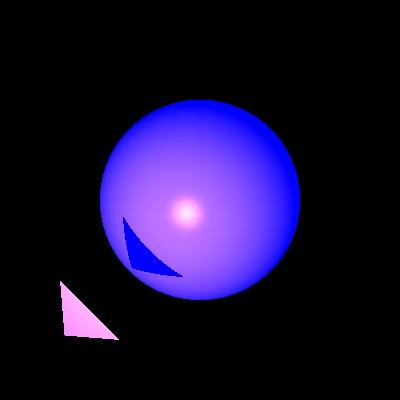
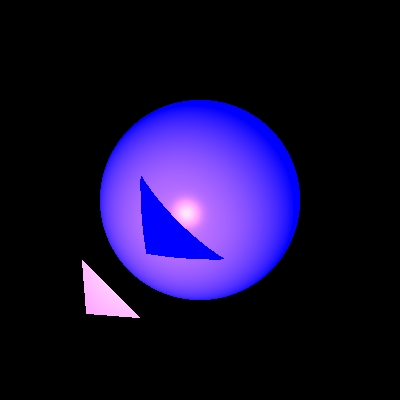
debut targuil 7

Changed region(s): [[0.3, 0.45, 0.57, 0.69], [0.15, 0.66, 0.36, 0.87]]

diff --git a/unitTest/renderer/LightsTests.java b/unitTest/renderer/LightsTests.java
@@ -20,16 +20,26 @@ public class LightsTests {
     @Test
     public void sphereDirectional() {
         Scene scene = new Scene.SceneBuilder("Test scene")
-                .addAmbientLight(new AmbientLight(new Color(250,25,25), 1))
+                .addAmbientLight(new AmbientLight(Color.BLACK, 0))
                 .addBackground(Color.BLACK)
-                .addCamera(new Camera(new Point3D(0, 0, -100), new Vector(0, 0, 1), new Vector(0, -1, 0)))
+                .addCamera(new Camera(
+                        new Point3D(0, 0, -1000),
+                        new Vector(0, 0, 1),
+                        new Vector(0, -1, 0)))
                 .addDistance(1000)
                 .build();
 
         scene.addGeometries(
-                new Sphere(new Color(java.awt.Color.BLUE), new Material(0.5, 0.5, 100), 50, new Point3D(0, 0, 50)));
+                new Sphere(
+                        new Color(java.awt.Color.BLUE),
+                        new Material(0.5, 0.5, 100),
+                        50,
+                        new Point3D(0, 0, 50)));
 
-        scene.addLights(new DirectionalLight(new Color(500, 300, 0), new Vector(1, -1, 1)));
+        scene.addLights(
+                new DirectionalLight(
+                        new Color(500, 300, 0),
+                        new Vector(1, -1, 1)));
 
         ImageWriter imageWriter = new ImageWriter("sphereDirectional", 150, 150, 500, 500);
         Render render = new Render(imageWriter, scene);
@@ -44,16 +54,26 @@ public class LightsTests {
     @Test
     public void spherePoint() {
         Scene scene = new Scene.SceneBuilder("Test scene")
-                .addAmbientLight(new AmbientLight(new Color(250,25,25), 1))
+                .addAmbientLight(new AmbientLight(Color.BLACK, 0))
                 .addBackground(Color.BLACK)
-                .addCamera(new Camera(new Point3D(0, 0, -50), new Vector(0, 0, 1), new Vector(0, -1, 0)))
+                .addCamera(new Camera(
+                        new Point3D(0, 0, -1000),
+                        new Vector(0, 0, 1),
+                        new Vector(0, -1, 0)))
                 .addDistance(1000)
                 .build();
 
         scene.addGeometries(
-                new Sphere(new Color(java.awt.Color.BLUE), new Material(1, 1, 50), 50, new Point3D(0, 0, 50)));
+                new Sphere(
+                        new Color(java.awt.Color.BLUE),
+                        new Material(0.5, 0.5, 100),
+                        50,
+                        new Point3D(0, 0, 50)));
 
-        scene.addLights(new PointLight(new Color(500, 300, 0), new Point3D(-50, 50, -50), 1, 0.00001, 0.000001));
+        scene.addLights(new PointLight(
+                new Color(500, 300, 0),
+                new Point3D(-50, 50, -50),
+                1, 0.00001, 0.000001));
 
         ImageWriter imageWriter = new ImageWriter("spherePoint", 150, 150, 500, 500);
         Render render = new Render(imageWriter, scene);
@@ -68,17 +88,59 @@ public class LightsTests {
     @Test
     public void sphereSpot() {
         Scene scene = new Scene.SceneBuilder("Test scene")
-                .addAmbientLight(new AmbientLight(Color.WHITE, 1))
+                .addAmbientLight(new AmbientLight(Color.BLACK, 0))
                 .addBackground(Color.BLACK)
-                .addCamera(new Camera(new Point3D(0, 0, -1000), new Vector(0, 0, 1), new Vector(0, -1, 0)))
+                .addCamera(new Camera(
+                        new Point3D(0, 0, -1000),
+                        new Vector(0, 0, 1),
+                        new Vector(0, -1, 0)))
                 .addDistance(1000)
                 .build();
 
         scene.addGeometries(
-                new Sphere(new Color(java.awt.Color.BLUE), new Material(0.5, 0.5, 100), 50, new Point3D(0, 0, 50)));
+                new Sphere(
+                        new Color(java.awt.Color.BLUE),
+                        new Material(0.5, 0.5, 100),
+                        50,
+                        new Point3D(0, 0, 50)));
 
-        scene.addLights(new SpotLight(new Color(500, 300, 0), new Point3D(-50, 50, -50),
-                new Vector(1, -1, 2), 1, 0.00001, 0.00000001));
+        scene.addLights(new SpotLight(
+                new Color(500, 300, 0),
+                new Point3D(-50, 50, -50),
+                new Vector(1, -1, 2),
+                1, 0.00001, 0.0000001));
+
+        ImageWriter imageWriter = new ImageWriter("sphereSpot", 150, 150, 500, 500);
+        Render render = new Render(imageWriter, scene);
+
+        render.renderImage();
+        render.writeToImage();
+    }
+
+    @Test
+    public void spherePointSpot() {
+        Scene scene = new Scene.SceneBuilder("Test scene")
+                .addAmbientLight(new AmbientLight(Color.BLACK, 0))
+                .addBackground(Color.BLACK)
+                .addCamera(new Camera(
+                        new Point3D(0, 0, -1000),
+                        new Vector(0, 0, 1),
+                        new Vector(0, -1, 0)))
+                .addDistance(1000)
+                .build();
+
+        scene.addGeometries(
+                new Sphere(
+                        new Color(java.awt.Color.BLUE),
+                        new Material(0.5, 0.5, 100),
+                        50,
+                        new Point3D(0, 0, 50)));
+
+        scene.addLights(new SpotLight(
+                new Color(500, 300, 0),
+                new Point3D(-50, 50, -50),
+                new Vector(1, -1, 2),
+                1, 0.00001, 0.00000001));
 
         ImageWriter imageWriter = new ImageWriter("sphereSpot", 150, 150, 500, 500);
         Render render = new Render(imageWriter, scene);
@@ -95,18 +157,31 @@ public class LightsTests {
         Scene scene = new Scene.SceneBuilder("Test scene")
                 .addAmbientLight(new AmbientLight(Color.WHITE, 0.15))
                 .addBackground(Color.BLACK)
-                .addCamera(new Camera(new Point3D(0, 0, -1000), new Vector(0, 0, 1), new Vector(0, -1, 0)))
+                .addCamera(new Camera(
+                        new Point3D(0, 0, -1000),
+                        new Vector(0, 0, 1),
+                        new Vector(0, -1, 0)))
                 .addDistance(1000)
                 .build();
 
 
         scene.addGeometries(
-                new Triangle(Color.BLACK, new Material(0.8, 0.2, 300),
-                        new Point3D(-150, 150, 150), new Point3D(150, 150, 150), new Point3D(75, -75, 150)),
-                new Triangle(Color.BLACK, new Material(0.8, 0.2, 300),
-                        new Point3D(-150, 150, 150), new Point3D(-70, -70, 50), new Point3D(75, -75, 150)));
+                new Triangle(
+                        Color.BLACK,
+                        new Material(0.8, 0.2, 300),
+                        new Point3D(-150, 150, 150),
+                        new Point3D(150, 150, 150),
+                        new Point3D(75, -75, 150)),
+                new Triangle(
+                        Color.BLACK,
+                        new Material(0.8, 0.2, 300),
+                        new Point3D(-150, 150, 150),
+                        new Point3D(-70, -70, 50),
+                        new Point3D(75, -75, 150)));
 
-        scene.addLights(new DirectionalLight(new Color(300, 150, 150), new Vector(0, 0, 1)));
+        scene.addLights(new DirectionalLight(
+                new Color(300, 150, 150),
+                new Vector(0, 0, 1)));
 
         ImageWriter imageWriter = new ImageWriter("trianglesDirectional", 200, 200, 500, 500);
         Render render = new Render(imageWriter, scene);
@@ -114,6 +189,7 @@ public class LightsTests {
         render.renderImage();
         render.writeToImage();
     }
+
 
     /**
      * Produce a picture of a two triangles lighted by a point light
@@ -123,17 +199,29 @@ public class LightsTests {
         Scene scene = new Scene.SceneBuilder("Test scene")
                 .addAmbientLight(new AmbientLight(Color.WHITE, 0.15))
                 .addBackground(Color.BLACK)
-                .addCamera(new Camera(new Point3D(0, 0, -1000), new Vector(0, 0, 1), new Vector(0, -1, 0)))
+                .addCamera(new Camera(
+                        new Point3D(0, 0, -1000),
+                        new Vector(0, 0, 1),
+                        new Vector(0, -1, 0)))
                 .addDistance(1000)
                 .build();
 
         scene.addGeometries(
-                new Triangle(Color.BLACK, new Material(0.5, 0.5, 300),
-                        new Point3D(-150, 150, 150), new Point3D(150, 150, 150), new Point3D(75, -75, 150)),
-                new Triangle(Color.BLACK, new Material(0.5, 0.5, 300),
-                        new Point3D(-150, 150, 150), new Point3D(-70, -70, 50), new Point3D(75, -75, 150)));
+                new Triangle(
+                        Color.BLACK,
+                        new Material(0.5, 0.5, 300),
+                        new Point3D(-150, 150, 150),
+                        new Point3D(150, 150, 150),
+                        new Point3D(75, -75, 150)),
+                new Triangle(
+                        Color.BLACK,
+                        new Material(0.5, 0.5, 300),
+                        new Point3D(-150, 150, 150),
+                        new Point3D(-70, -70, 50),
+                        new Point3D(75, -75, 150)));
 
-        scene.addLights(new PointLight(new Color(500, 250, 250),
+        scene.addLights(new PointLight(
+                new Color(500, 250, 250),
                 new Point3D(10, 10, 130),
                 1, 0.0005, 0.0005));
 
@@ -152,18 +240,31 @@ public class LightsTests {
         Scene scene = new Scene.SceneBuilder("Test scene")
                 .addAmbientLight(new AmbientLight(Color.WHITE, 0.15))
                 .addBackground(Color.BLACK)
-                .addCamera(new Camera(new Point3D(0, 0, -1000), new Vector(0, 0, 1), new Vector(0, -1, 0)))
+                .addCamera(new Camera(
+                        new Point3D(0, 0, -1000),
+                        new Vector(0, 0, 1),
+                        new Vector(0, -1, 0)))
                 .addDistance(1000)
                 .build();
 
         scene.addGeometries(
-                new Triangle(Color.BLACK, new Material(0.5, 0.5, 300),
-                        new Point3D(-150, 150, 150), new Point3D(150, 150, 150), new Point3D(75, -75, 150)),
-                new Triangle(Color.BLACK, new Material(0.5, 0.5, 300),
-                        new Point3D(-150, 150, 150), new Point3D(-70, -70, 50), new Point3D(75, -75, 150)));
+                new Triangle(
+                        Color.BLACK,
+                        new Material(0.5, 0.5, 300),
+                        new Point3D(-150, 150, 150),
+                        new Point3D(150, 150, 150),
+                        new Point3D(75, -75, 150)),
+                new Triangle(
+                        Color.BLACK,
+                        new Material(0.5, 0.5, 300),
+                        new Point3D(-150, 150, 150),
+                        new Point3D(-70, -70, 50),
+                        new Point3D(75, -75, 150)));
 
-        scene.addLights(new SpotLight(new Color(500, 250, 250),
-                new Point3D(10, 10, 130), new Vector(-2, 2, 1),
+        scene.addLights(new SpotLight(
+                new Color(500, 250, 250),
+                new Point3D(10, 10, 130),
+                new Vector(-2, 2, 1),
                 1, 0.0001, 0.000005));
 
         ImageWriter imageWriter = new ImageWriter("trianglesSpot", 200, 200, 500, 500);

diff --git a/unitTest/renderer/ShadowTests.java b/unitTest/renderer/ShadowTests.java
@@ -65,7 +65,7 @@ public class ShadowTests {
         scene.addGeometries(new Sphere(new Color(java.awt.Color.BLUE), new Material(0.5, 0.5, 30), //
                         60, new Point3D(0, 0, 200)), //
                 new Triangle(new Color(java.awt.Color.BLUE), new Material(0.5, 0.5, 30), //
-                        new Point3D(-70, 40, 0), new Point3D(-40, 70, 0), new Point3D(-68, 68, 4)));
+                        new Point3D(-45, 15, 15), new Point3D(-15, 45, 15), new Point3D(-43, 43, 19)));
 
         scene.addLights(new SpotLight(new Color(400, 240, 0), //
                 new Point3D(-100, 100, -200), new Vector(1, -1, 3), 1, 1E-5, 1.5E-7));
@@ -96,7 +96,7 @@ public class ShadowTests {
         scene.addGeometries(new Sphere(new Color(java.awt.Color.BLUE), new Material(0.5, 0.5, 30), //
                         60, new Point3D(0, 0, 200)), //
                 new Triangle(new Color(java.awt.Color.BLUE), new Material(0.5, 0.5, 30), //
-                        new Point3D(-70, 40, 0), new Point3D(-40, 70, 0), new Point3D(-68, 68, 4)));
+                        new Point3D(-60, 30, 15), new Point3D(-30, 60, 15), new Point3D(-58, 58, 19)));
 
         scene.addLights(new SpotLight(new Color(400, 240, 0), //
                 new Point3D(-100, 100, -200), new Vector(1, -1, 3), 1, 1E-5, 1.5E-7));
@@ -130,7 +130,7 @@ public class ShadowTests {
                         new Point3D(-70, 40, 0), new Point3D(-40, 70, 0), new Point3D(-68, 68, 4)));
 
         scene.addLights(new SpotLight(new Color(400, 240, 0), //
-                new Point3D(-100, 100, -200), new Vector(1, -1, 3), 1, 1E-5, 1.5E-7));
+                new Point3D(-70,70, -50), new Vector(1, -1, 3), 1, 1E-5, 1.5E-7));
 
         ImageWriter imageWriter = new ImageWriter("sphereTriangleSpot1", 200, 200, 400, 400);
         Render render = new Render(imageWriter, scene);
@@ -161,7 +161,7 @@ public class ShadowTests {
                         new Point3D(-70, 40, 0), new Point3D(-40, 70, 0), new Point3D(-68, 68, 4)));
 
         scene.addLights(new SpotLight(new Color(400, 240, 0), //
-                new Point3D(-100, 100, -200), new Vector(1, -1, 3), 1, 1E-5, 1.5E-7));
+                new Point3D(-83, 83, -120), new Vector(1, -1, 3), 1, 1E-5, 1.5E-7));
 
         ImageWriter imageWriter = new ImageWriter("sphereTriangleSpot2", 200, 200, 400, 400);
         Render render = new Render(imageWriter, scene);

diff --git a/src/renderer/Render.java b/src/renderer/Render.java
@@ -109,7 +109,7 @@ public class Render {
                 double nv = alignZero(n.dotProduct(v));
                 if (n.dotProduct(l) * n.dotProduct(v) > 0) {
 //                if (sign(nl) == sign(nv)) {
-                    if (unshaded(lightSource, l, n, coloredPoint)) {
+                    if (unshaded(l, n, coloredPoint)) {
                         Color ip = lightSource.getIntensity(coloredPoint.getPoint());
                         result = result.add(
                                 calcDiffusive(kd, nl, ip),
@@ -178,7 +178,16 @@ public class Render {
         return (val > 0d);
     }
 
-    private boolean unshaded(LightSource light, Vector l, Vector n, GeoPoint geopoint) {
+    private boolean unshaded(Vector l, Vector n, GeoPoint geopoint) {
+        Vector lightDirection = l.scale(-1); // from point to light source
+        Vector delta = n.scale(n.dotProduct(lightDirection) > 0 ? DELTA : - DELTA);
+        Point3D point = geopoint.getPoint().add(delta);
+        Ray lightRay = new Ray(point, lightDirection);
+        List<GeoPoint> intersections = _scene.getGeometries().findIntersections(lightRay);
+        return intersections == null;
+    }
+
+   /* private boolean unshaded(LightSource light, Vector l, Vector n, GeoPoint geopoint) {
         Vector lightDirection = l.scale(-1); // from point to light source
         Vector delta = n.scale(n.dotProduct(lightDirection) > 0 ? DELTA : -DELTA);
         Point3D point = geopoint.getPoint().add(delta);
@@ -194,5 +203,5 @@ public class Render {
                 return false;
         }
         return true;
-    }
+    }*/
 }
